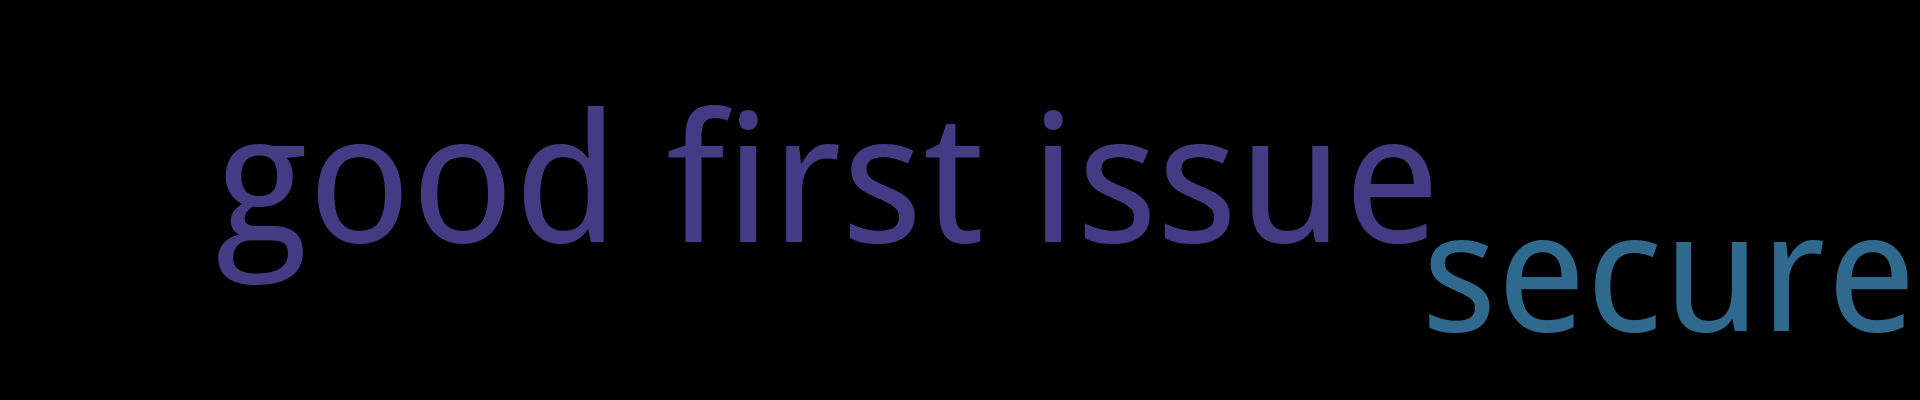
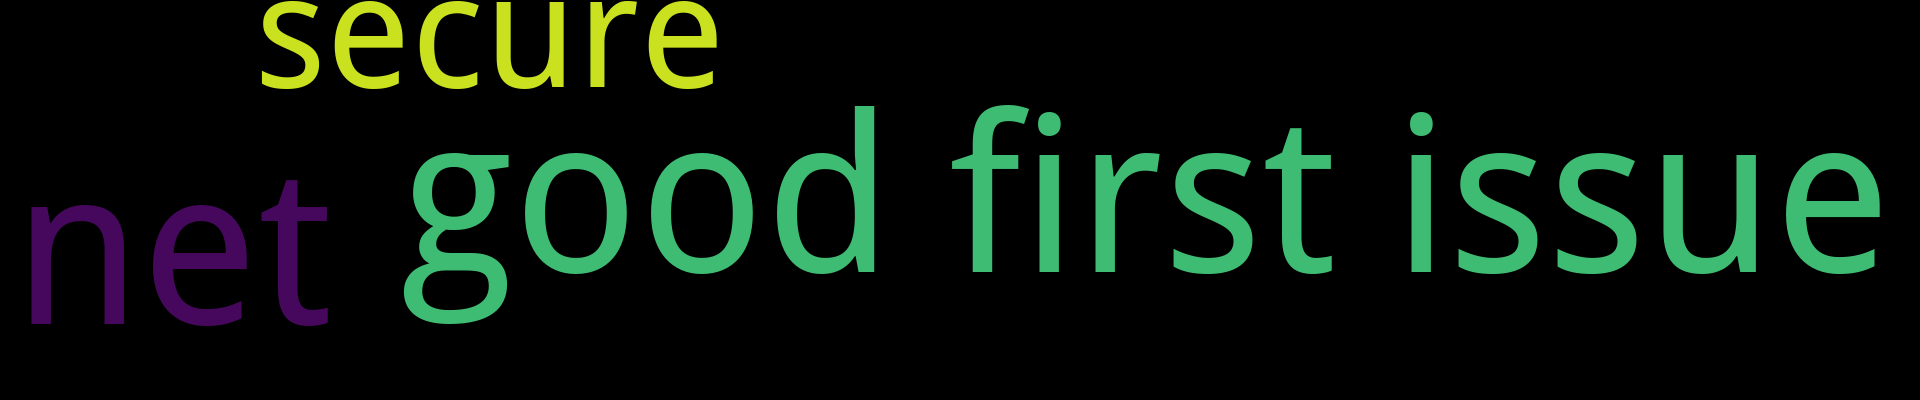
Update from Github Action

Changed region(s): [[0.0, 0.24, 1.0, 0.84], [0.125, 0.0, 0.375, 0.24], [0.7188, 0.27, 0.75, 0.33]]

diff --git a/README.md b/README.md
@@ -1,7 +1,7 @@
 
 <p align='center'>
     <img src="https://badgen.net/github/issues/maya1900//issues_notes"/>
-    <img src="https://badgen.net/badge/last-commit/2022-11-30 06:51:55"/>
+    <img src="https://badgen.net/badge/last-commit/2022-11-30 07:16:54"/>
     <img src="https://badgen.net/github/forks/maya1900//issues_notes"/>
     <img src="https://badgen.net/github/stars/maya1900//issues_notes"/>
     <img src="https://badgen.net/github/watchers/maya1900//issues_notes"/>
@@ -15,6 +15,14 @@
 <summary>good first issue	[1篇]</summary>
 
 - 2022-11-26 [test](https://github.com/maya1900/issues_notes/issues/1) 
+
+
+</details>
+            
+<details open>
+<summary>net	[1篇]</summary>
+
+- 2022-11-30 [http status](https://github.com/maya1900/issues_notes/issues/3) 
 
 
 </details>
